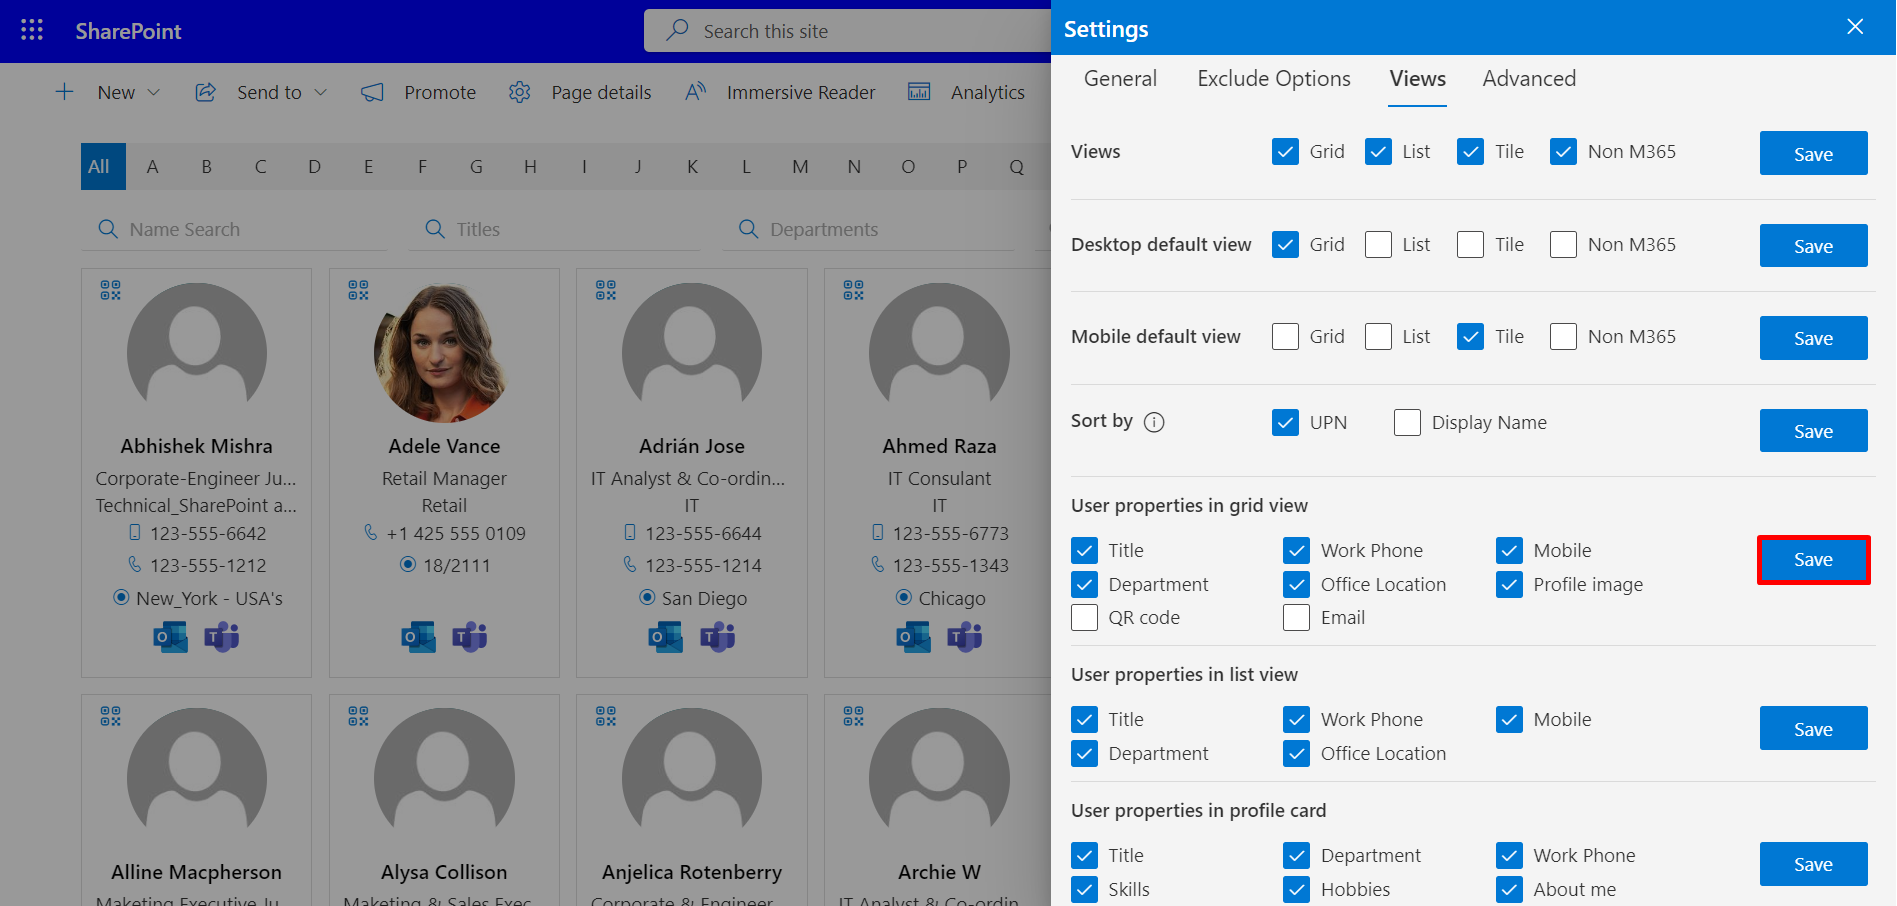
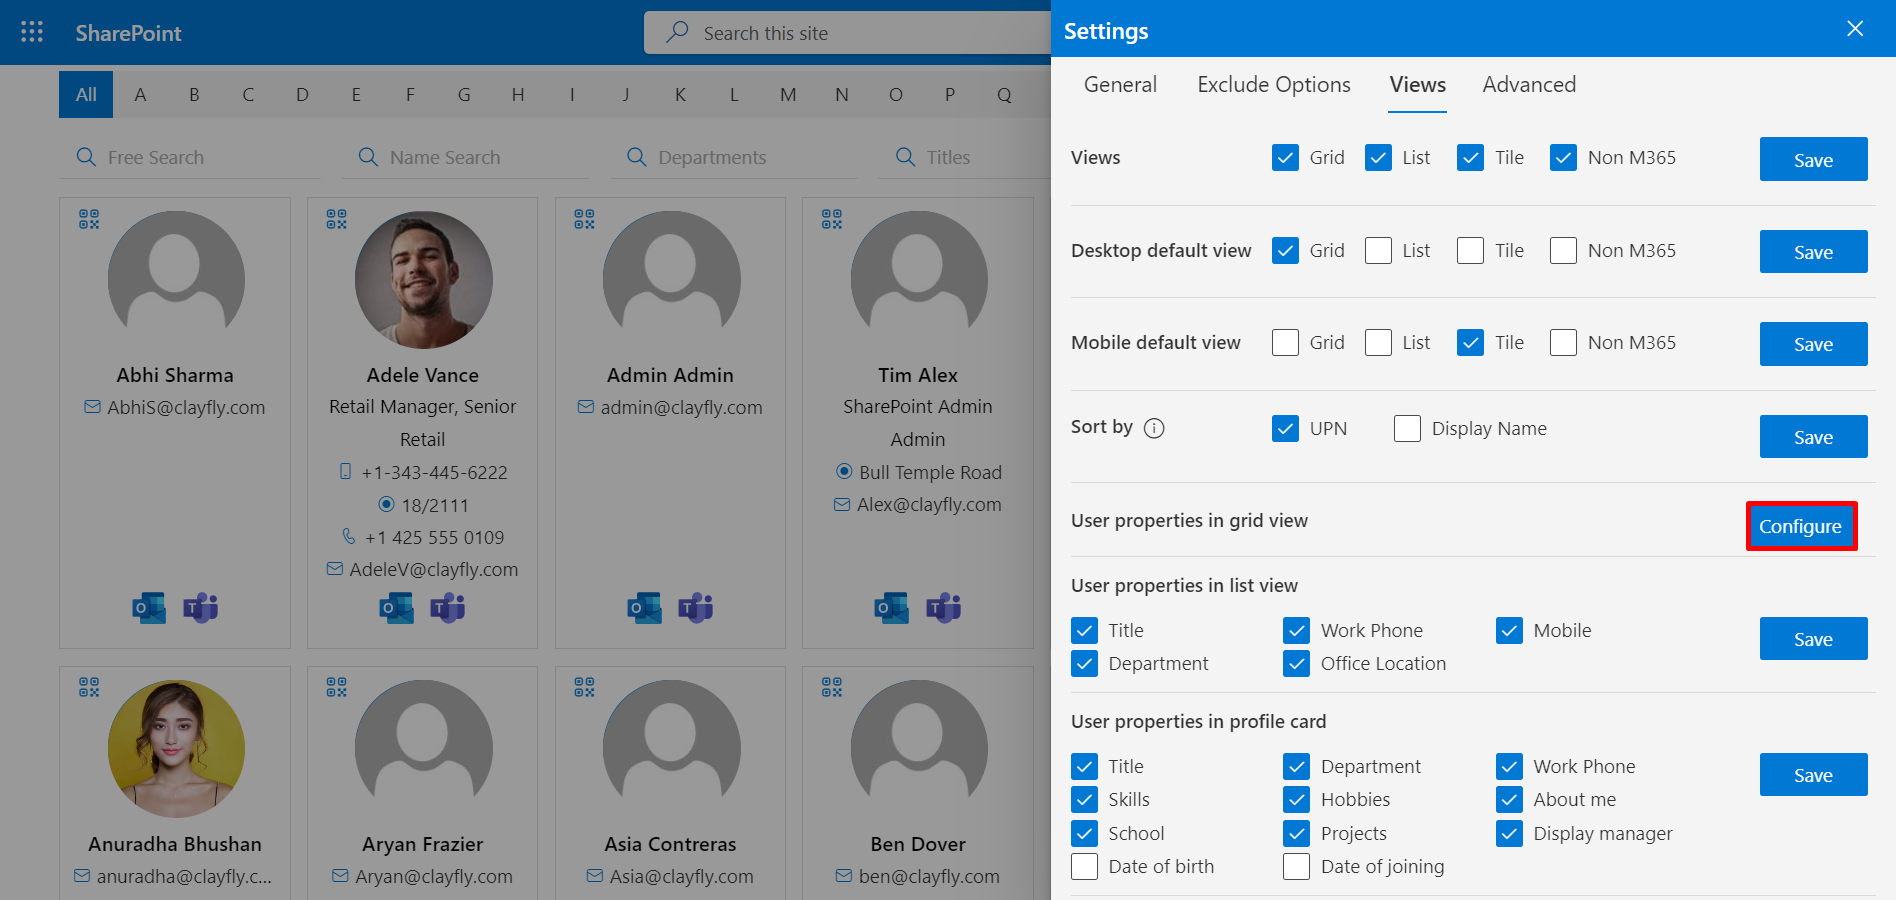
----

diff --git a/sharepoint-employee-directory/modern/release-note/index.html b/sharepoint-employee-directory/modern/release-note/index.html
@@ -67,6 +67,17 @@
             Release Notes
         </a>
     <ul>
+        <li data-nav-id=../../../Getting-started/installation/using-app-file/app-file.html  title=12.23.0613.2115 class="sidelist versiononclick">
+            <a   href="#releasenote14">
+                Version 12.23.0613.2115
+            </a>
+         </li>
+
+         <li data-nav-id=../../../Getting-started/installation/using-app-file/app-file.html  title=12.23.606.1312 class="sidelist versiononclick">
+            <a   href="#releasenote13">
+                Version 12.23.606.1312
+            </a>
+         </li>
         <li data-nav-id=../../../Getting-started/installation/using-app-file/app-file.html  title=12.23.0508.1840 class="sidelist versiononclick">
             <a   href="#releasenote12">
                 Version 12.23.0508.1840
@@ -140,6 +151,65 @@
 </div>
 <div class= "mar-0px-auto col-lg-9" style="margin: 0px auto">
 <div class="p-lg-4 p-4 remove-padding bg-white" id=content>
+
+    <div class="bg-light p-4 remove-padding releasenotepadding" id="releasenote14">
+        <li data-nav-id=.../Getting-started/installation/using-app-file title='Release Note' class="sidelist">
+            <h3 id="_dashboards"><a class="header-icon-link highlight" href="#">Release Note<i class="fas fa-link"
+                    style="font-size:12px; color:lightgray;"></i></a> </h3>
+                  <p> Version 12.23.0613.2115  &nbsp&nbsp&nbsp&nbsp&nbsp&nbsp  Released 13-June-2023</p>
+                
+                
+        <div><div contenteditable="false" class="sc-gzcbmu bbnSRJ"><div class="sc-gkCoMD enpFfZ"><div class="sc-flUlpA dOsSOW"><span class="sc-iwajpm kydRHc"><span class="sc-cxNHIi fHUQtx" style="display: inline-flex;"><span class="sc-ksluID iQRQtT sc-fWWYYk MyLsF Icon--kipico--DOaJIfpG Icon--link--xiwyJfW7"></span></span></span><span class="sc-iwajpm kydRHc"><span class="sc-cxNHIi fHUQtx" style="display: inline-flex;"><span class="sc-ksluID iQRQtT sc-fWWYYk MyLsF Icon--kipico--DOaJIfpG Icon--copy--s6HZTBER"></span></span></span></div></div></div><h3 id="49409fa4" class="sc-jtiXyc YVppW"><span data-key="8"><span data-offset-key="8:0">🚀 What's New </span></span></h3></div>
+         
+      
+      <ol>
+        <ul> <li><b>New Features + Improvements:</b></li></ul>
+        <li>
+            Dashboards - (Can enable dashboard view for all users or selected users from the views settings)
+        </li>
+             
+      </ol>
+      <br>
+      
+    </ul>
+    
+    
+    </ul>
+    </li>
+    </ul>
+    </div>
+
+    <div class="bg-light p-4 remove-padding releasenotepadding" id="releasenote13">
+        <li data-nav-id=.../Getting-started/installation/using-app-file title='Release Note' class="sidelist">
+            <h3 id="_dashboards"><a class="header-icon-link highlight" href="#">Release Note<i class="fas fa-link"
+                    style="font-size:12px; color:lightgray;"></i></a> </h3>
+                  <p> Version 12.23.606.1312  &nbsp&nbsp&nbsp&nbsp&nbsp&nbsp  Released 06-June-2023</p>
+                
+                
+        <div><div contenteditable="false" class="sc-gzcbmu bbnSRJ"><div class="sc-gkCoMD enpFfZ"><div class="sc-flUlpA dOsSOW"><span class="sc-iwajpm kydRHc"><span class="sc-cxNHIi fHUQtx" style="display: inline-flex;"><span class="sc-ksluID iQRQtT sc-fWWYYk MyLsF Icon--kipico--DOaJIfpG Icon--link--xiwyJfW7"></span></span></span><span class="sc-iwajpm kydRHc"><span class="sc-cxNHIi fHUQtx" style="display: inline-flex;"><span class="sc-ksluID iQRQtT sc-fWWYYk MyLsF Icon--kipico--DOaJIfpG Icon--copy--s6HZTBER"></span></span></span></div></div></div><h3 id="49409fa4" class="sc-jtiXyc YVppW"><span data-key="8"><span data-offset-key="8:0">🚀 What's New </span></span></h3></div>
+         
+      
+      <ol>
+        <ul> <li><b>New Features + Improvements:</b></li></ul>
+        <li>
+            Can reorder Search filters from the general settings.
+        </li>
+        
+      <li>Can reorder grid view fields from the view settings.</li>
+      <li>Can add a date of birth filter from the search filters.</li>
+      <li>Can view the profile card by hovering a cursor on the image profile.</li>
+      <li>Can copy email, work phone, and mobile phone of profile card by clicking on the copy icon.</li>
+             
+      </ol>
+      <br>
+      
+    </ul>
+    
+    
+    </ul>
+    </li>
+    </ul>
+    </div>
 
     <div class="bg-light p-4 remove-padding releasenotepadding" id="releasenote12">
         <li data-nav-id=.../Getting-started/installation/using-app-file title='Release Note' class="sidelist">

diff --git a/sharepoint-employee-directory/modern/admin/settings/views/index.html b/sharepoint-employee-directory/modern/admin/settings/views/index.html
@@ -182,9 +182,12 @@
                   <li>
                     <p>
                       <b>User properties in grid view:</b> From here admin can set the properties in grid view as per
-                      the requirements. Select the checkboxes of the properties in the grid view. Finally, click on the
-                      Save button. It is mandatory to select at least one property.
+                      the requirements. Click on configure button.
                     <div><img src="grid_save.png" onclick="openModal('grid_save.png')" alt="grid view" width="100%" height="auto"></div>
+                    <br>
+                    <p>User Can reorder grid view fields from the view settings. Select the checkboxes of the properties in the grid view. Finally, click on the
+                      Save button. It is mandatory to select at least one property.</p>
+                    <div><img src="gridReorder.png" onclick="openModal('gridReorder.png')" alt="grid view" width="100%" height="auto"></div>
                     <br>
                     <p>That displays the properties on the grid view as shown.</p>
                     <div><img src="grid.png" onclick="openModal('grid.png')" alt="property on grid" width="100%" height="auto"></div>
@@ -236,6 +239,18 @@
 
                     </p>
                   </li>
+
+                  <br>
+                  <li>
+                    <p>
+                      <b>Dashboards feature</b> - (Can enable dashboard view for all users or selected users from the views settings).
+                    <div><img src="dashboardFeature.png" onclick="openModal('dashboardFeature.png')" alt="dashboard Feature" width="100%" height="auto">
+                    </div>
+
+                    </p>
+                  </li>
+                  <br>
+
                   <br>
                   <li>
                     <p>

diff --git a/sharepoint-employee-directory/modern/admin/profile-card/index.html b/sharepoint-employee-directory/modern/admin/profile-card/index.html
@@ -105,6 +105,7 @@
                                         birth</b>, <b>Date of joining</b>, <b>Schools and education</b>, <b><a
                                             href="../settings/general/upload-logo/">Company Logo</a></b> and
                                     Organization Chart of the user.
+                                    <p>Can view the profile card by hovering a cursor on the image profile.</p>
                                 <div><img src="profile_card.png" onclick="openModal('profile_card.png')" alt="Profile card"
                                         width="100%" height="auto"></div>
                                 <br>
@@ -176,6 +177,15 @@
 
                                 <div><img src="share.png" onclick="openModal('share.png')" alt="Share button" width="100%"
                                         height="auto"></div>
+
+                                        <br>
+                                        <p>
+                                           Click on Copy Icon for Copy the Email, Work Phone,  Mobile.
+                                        </p>
+        
+        
+                                        <div><img src="copyEMlPHN.png" onclick="openModal('copyEMlPHN.png')" alt="copy button" width="100%"
+                                                height="auto"></div>
 
 
 

diff --git a/sharepoint-employee-directory/modern/admin/settings/general/index.html b/sharepoint-employee-directory/modern/admin/settings/general/index.html
@@ -120,8 +120,8 @@
                             </h2>
                             <p>
                                                     
-                               Here you can hide or show the search filter on the home page. At least one filter is mandatory. 
-                              <div><img src="general_.png" onclick="openModal('general_.png')" alt="Search filters" width="100%"
+                               Here you can hide or show the search filter and also reorder search filter on the home page. At least one filter is mandatory. 
+                              <div><img src="searchFilter.png" onclick="openModal('searchFilter.png')" alt="Search filters" width="100%"
                                   height="auto"></div>
                           </p> 
                        
